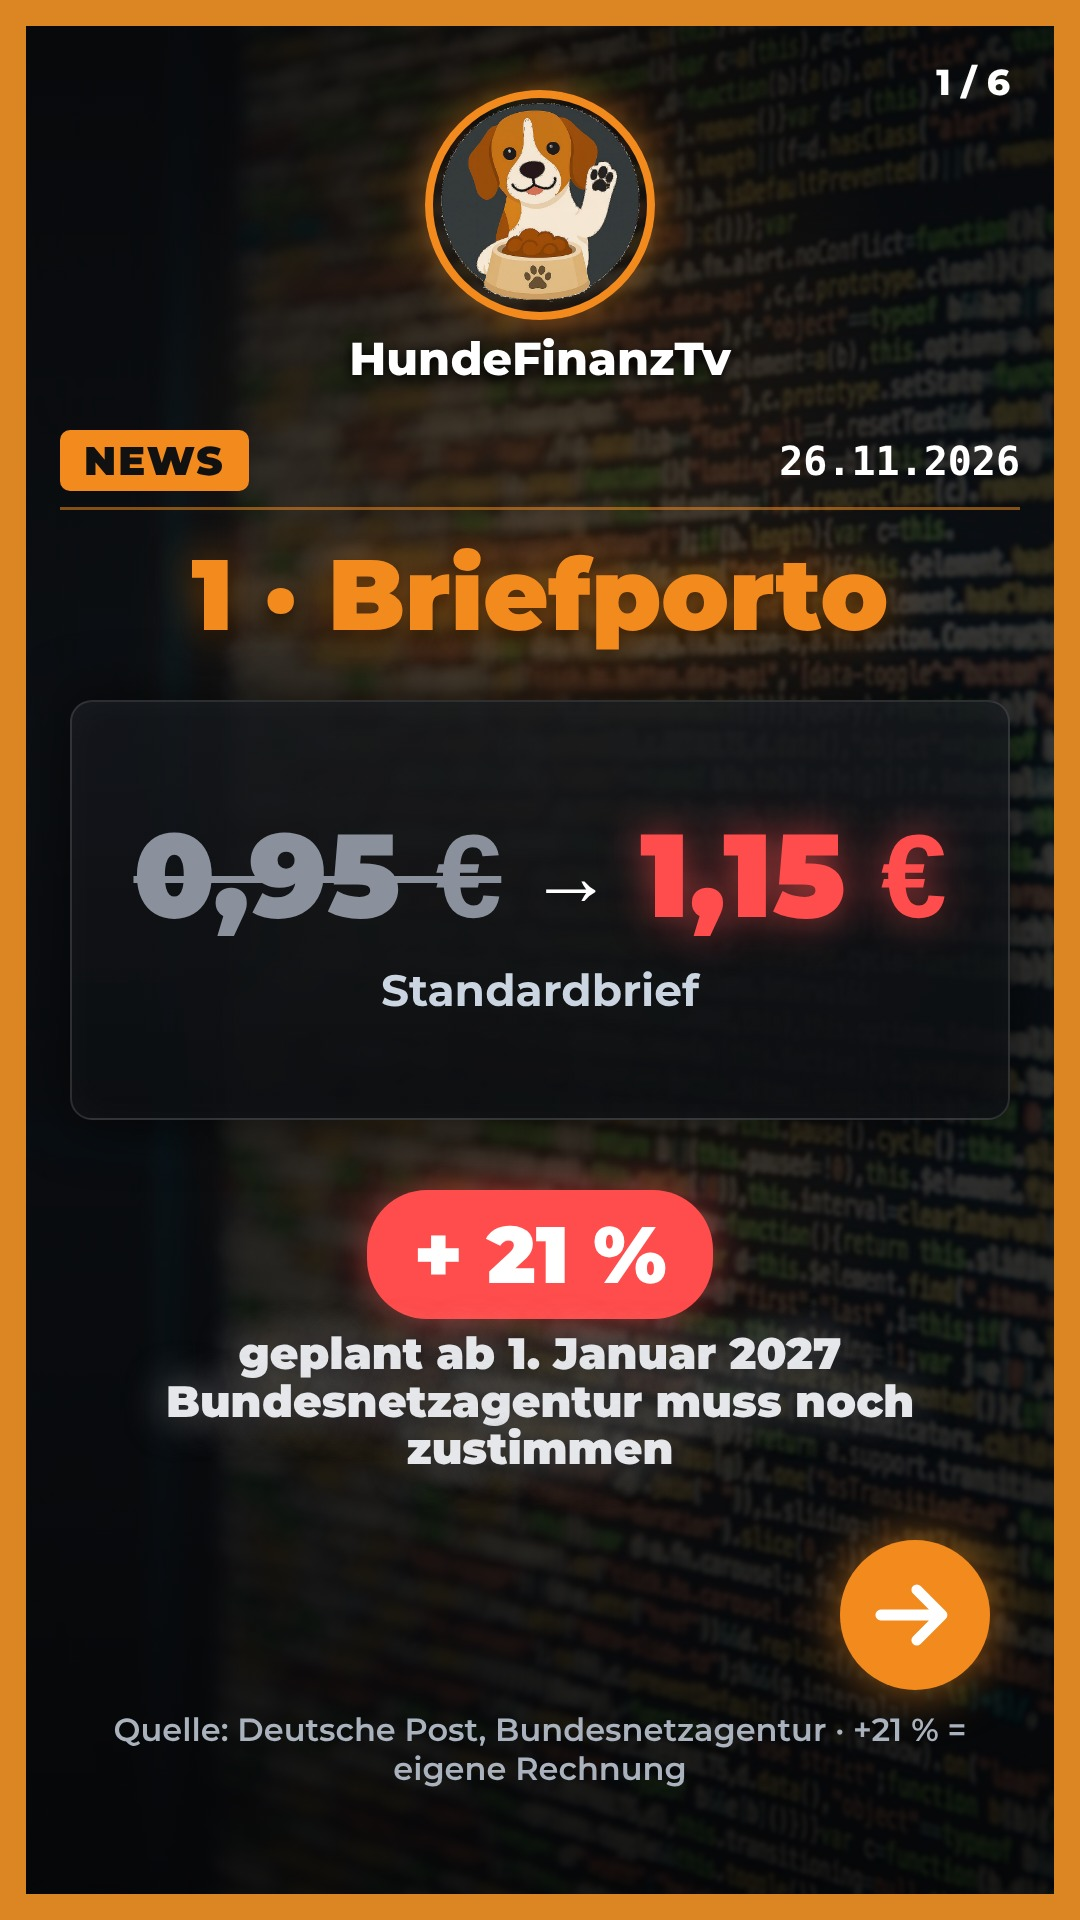
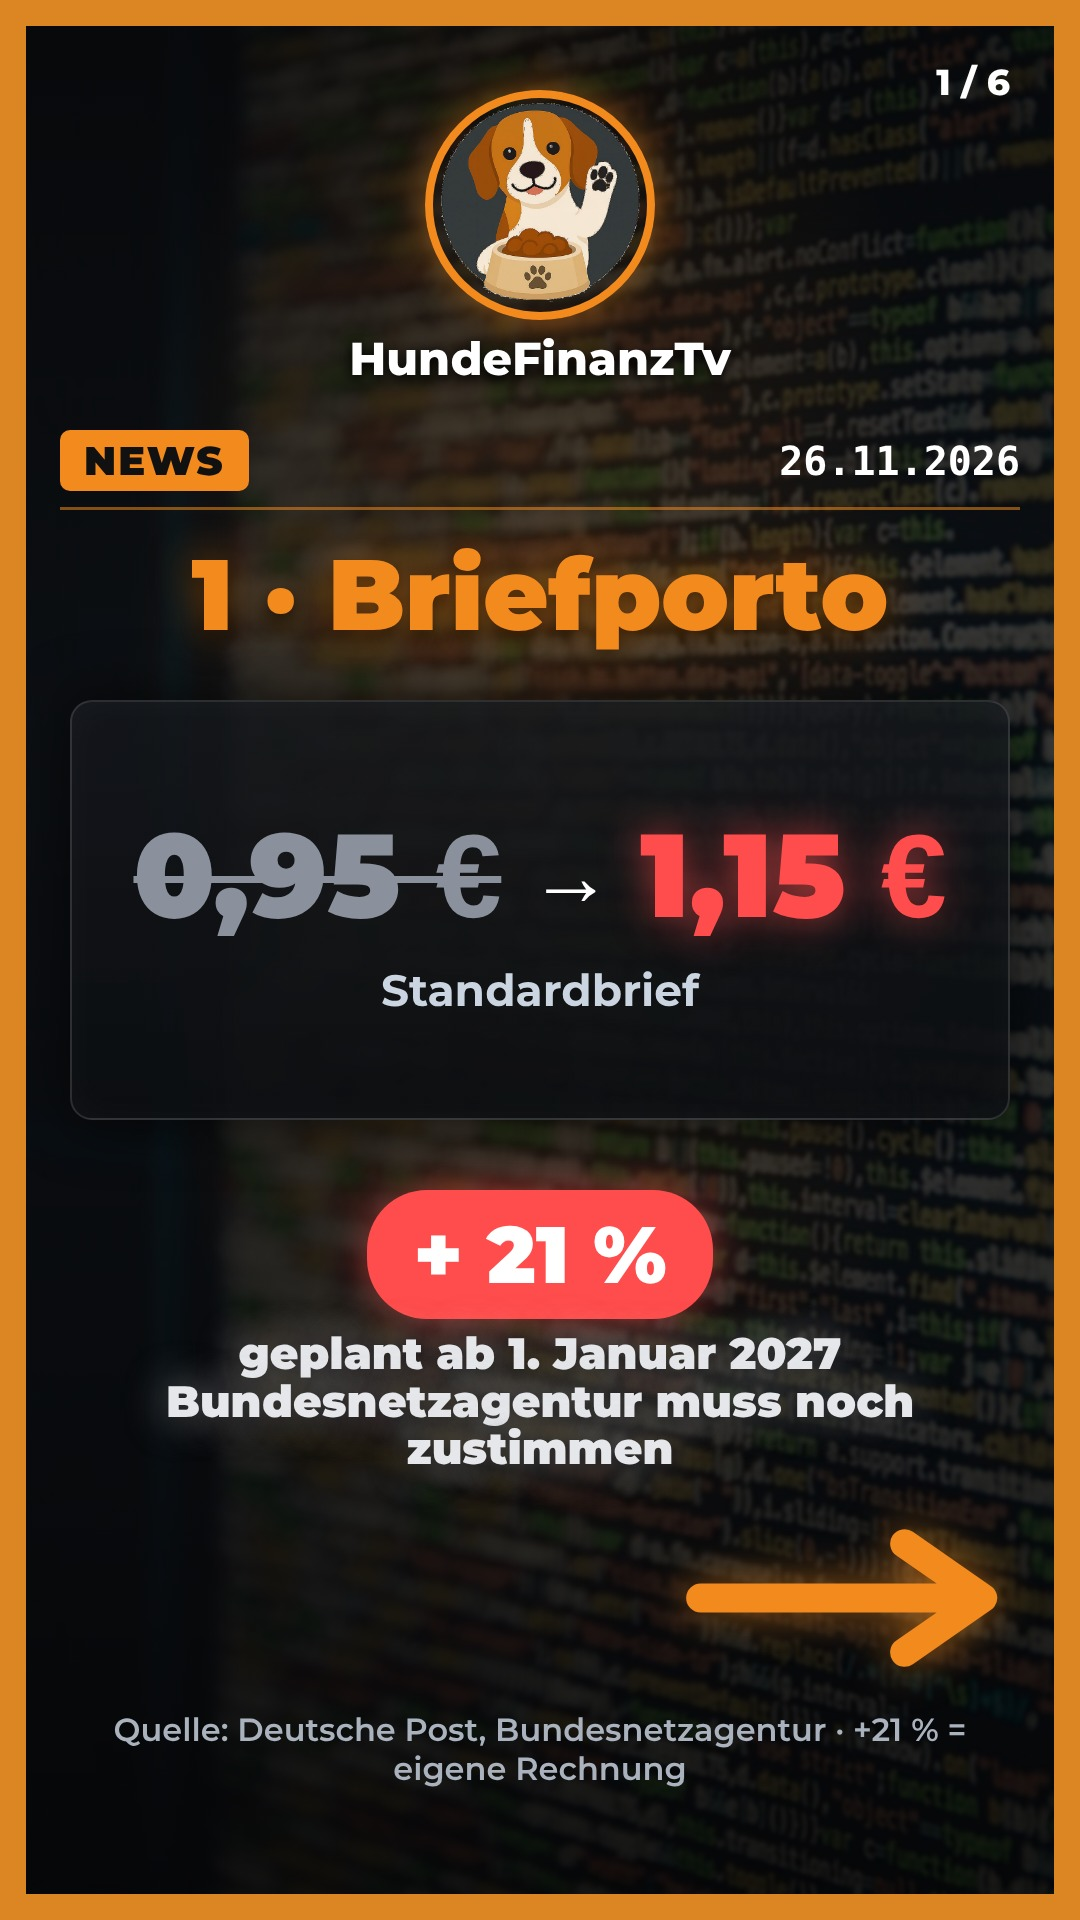
Slideshow 2027-teurer final: Pfeil auf allen Bildern, Titel-Regel
Claude-Session: https://claude.ai/code/session_01FsjuXdcJciSaWpvV4H8two

Changed region(s): [[0.6111, 0.7812, 0.9472, 0.9062]]

diff --git a/slides/2027-teurer/dunkel.py b/slides/2027-teurer/dunkel.py
@@ -25,7 +25,7 @@ s2 = (sd.kopf(D, nr="1 / 6") + sd.txt("1 · Briefporto", 540, 100, O)
 s3 = (sd.kopf(D, nr="2 / 6") + sd.txt("2 · Krankenkasse", 540, 100, O)
       + sd.glas('<div style="font-weight:700;font-size:46px;color:#cbd5e1">Ø Zusatzbeitrag 2027</div>'
                 f'<div style="font-weight:900;font-size:220px;line-height:1.1;text-shadow:0 0 40px #fff4">2,9 %</div><div style="font-weight:800;font-size:54px;color:{G}">bleibt wie 2026</div>', 700, 520)
-      + sd.txt("Aber: Deine Kasse kann<br>trotzdem mehr verlangen.", 1260, 54) + sd.pille("Dann darfst du wechseln", 1440, O, 50)
+      + sd.txt("Aber: Deine Kasse kann<br>trotzdem mehr verlangen.", 1230, 54) + sd.pille("Dann darfst du wechseln", 1390, O, 50)
       + W() + sd.quelle("Quelle: Bundesgesundheitsministerium, 30.10.2026"))
 s4 = (sd.kopf(D, nr="3 / 6") + sd.txt("3 · Krankenversicherung", 540, 70, O)
       + sd.glas(sd.von_nach("5.812,50 €", "6.375 €", "Beitragsgrenze pro Monat", 72), 680, 400)

diff --git a/CLAUDE.md b/CLAUDE.md
@@ -57,3 +57,4 @@ Videos werden mit HyperFrames (HTML + GSAP → MP4) gebaut. Skills: `.claude/ski
 - **DUNKLER Look ab 26.11. (Nutzer, Vorbild Bitcoin-Wochenend-Crash-Video vom 14.11.):** Hintergrund wieder DUNKEL (nicht ganz schwarz: abgedunkeltes Code-/Themenfoto mit Vignette, oranger Glow, oranger Rahmen), oben großer Beagle-Kreis + „HundeFinanzTv“, NEWS-Pille + Datum, Neon-Zahlen (rot/grün/orange), dunkle Glas-Karten, Laufband dunkel. Gilt für Slideshows UND Videos (hell/weiß = abgelehnt). Slideshow-Baukasten: `scripts/slide_dark.py`, Thumbnails passend im schwarzen Cover-Stil (`cover_dark.py`).
 - **Slideshow-Thumbnail (Nutzer 26.11.):** Thumbnail = das ERSTE Bild im dunklen Look (Beagle, NEWS+Datum, große Überschrift, Kurzliste), aber OHNE „1/7“, OHNE „Stand … geprüfte Zahlen“ und OHNE „Weiter wischen“. Gefiel ihm so (Vorlage: `slides/2027-teurer/dunkel.py`, Bild 01).
 - **Slideshow-Pfeil + Zählung (Nutzer 26.11.):** Statt „Weiter wischen“-Button ein ORANGER PFEIL nach rechts (`sd.pfeil`): Thumbnail mittig groß, auf den Bildern rechts unten. Thumbnail hat KEINE Kurzliste und zählt NICHT mit: erstes Inhaltsbild = „1 / n“. Letzte Folie (Folgen) ohne Pfeil.
+- **Lieferung ergänzt (Nutzer 26.11.):** Zu JEDEM Beitrag (Video, Slideshow) immer auch einen **TITEL** (kurz, packend, mit Emoji) zusätzlich zu Beschreibung, Hashtags/10 Tags, Quellen. Videos ab sofort ebenfalls im DUNKLEN Look (Hintergrund wie Slideshow/Bitcoin-Video); Pfeil bei allen Slideshow-Bildern wie in `sd.pfeil` (länglich, orange, ohne Kreis).
